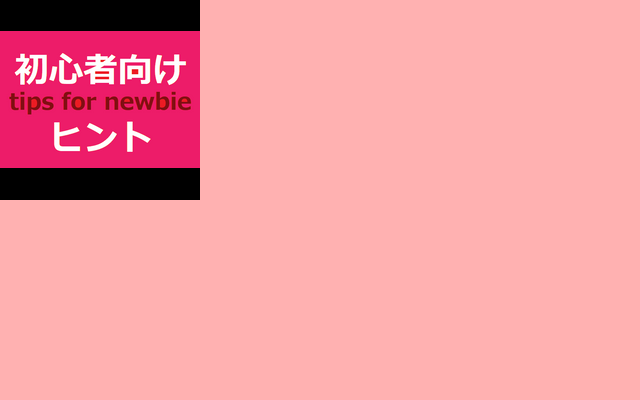
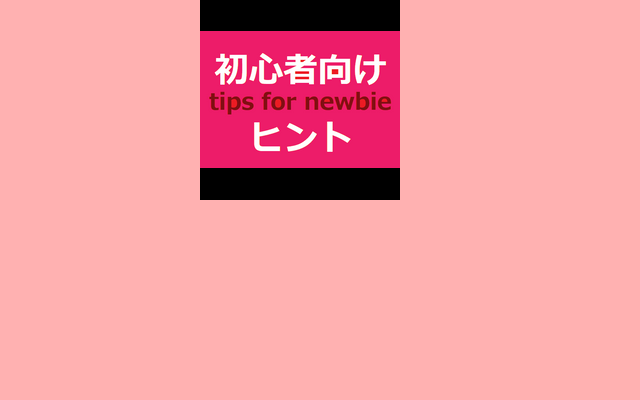
m

diff --git a/sharptest/app.js b/sharptest/app.js
@@ -82,9 +82,15 @@ await promise2.composite([
          {
               input: "1.png",
               top: 0,
-              left: 200
-          }
-     ] );
+              left: 0
+          },
+          {
+            input: "2.png",
+            top: 0,
+            left: 200
+        }
+
+        ] );
 
 await promise2.toFile("./ooo.png");
 
